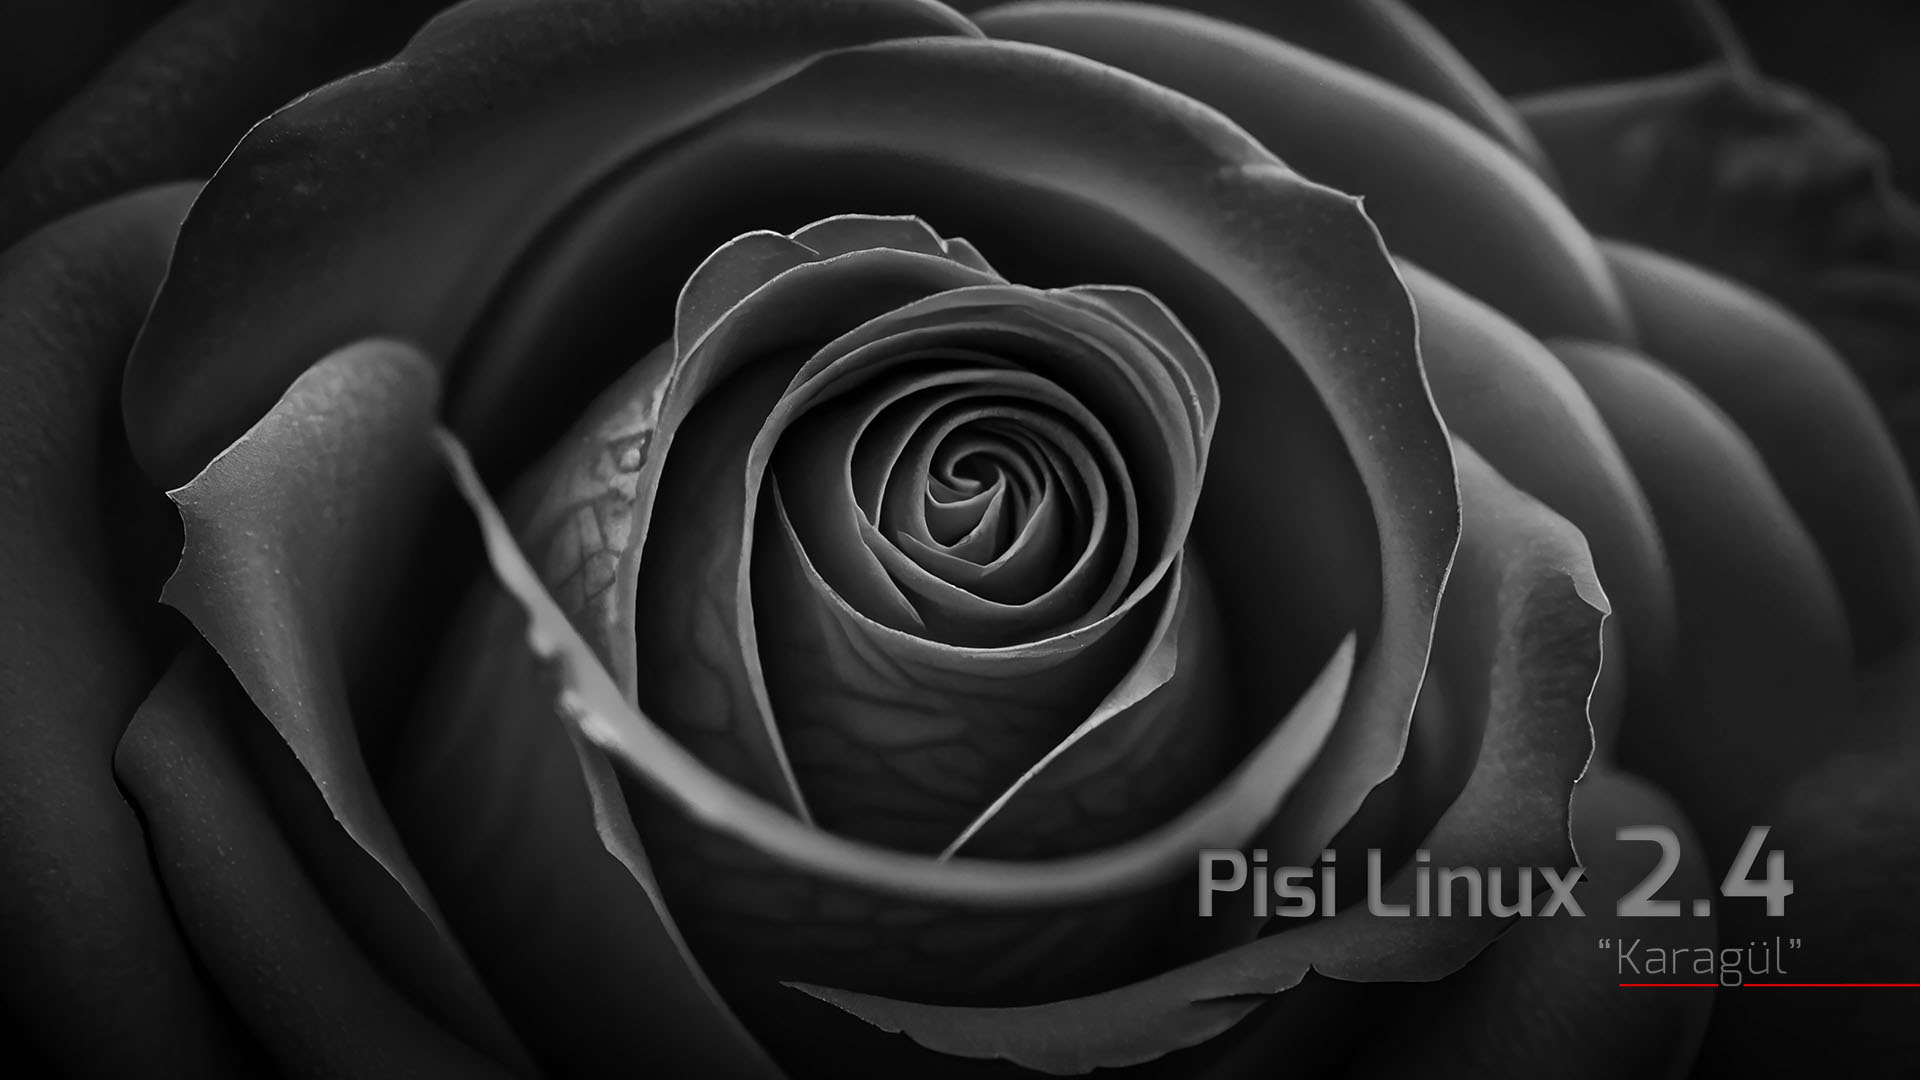
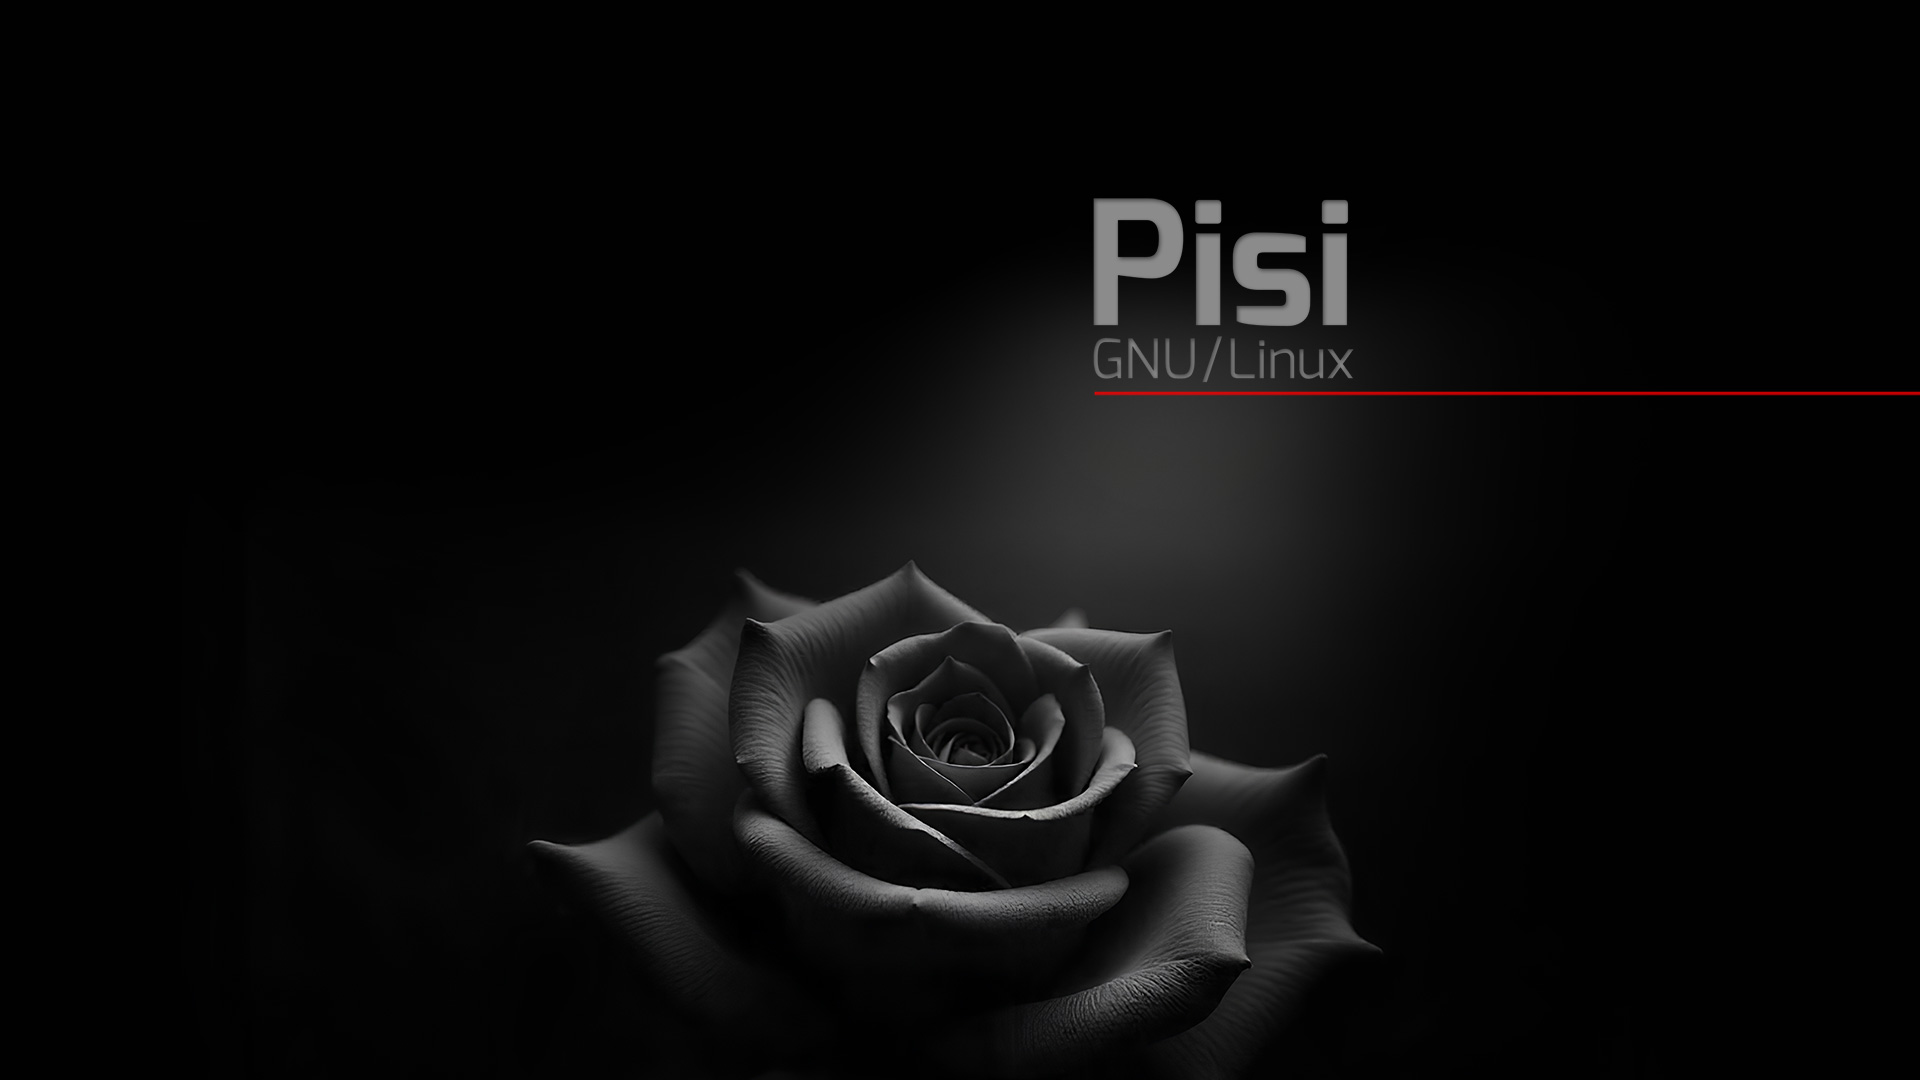
background replace

diff --git a/lookandfeel/contents/splash/Splash.qml b/lookandfeel/contents/splash/Splash.qml
@@ -5,7 +5,7 @@ Image {
 
     property real stage: 0
 
-    source: "images/background.png"
+    source: "images/background1.jpg"
     fillMode: Image.PreserveAspectCrop
     onStageChanged: {
         if (stage == 1)
